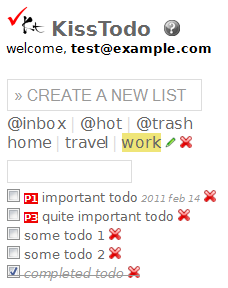
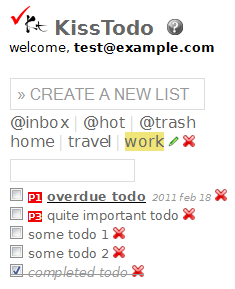
special today and overdue todo style

Changed region(s): [[0.0307, 0.25, 0.9825, 0.9688], [0.0307, 0.0, 0.9211, 0.1875]]

diff --git a/templates/todo/todo_item.html b/templates/todo/todo_item.html
@@ -1,7 +1,7 @@
 <span class="todo_item">
     <span class="todo_priority">{% if todo.priority < 4%}P{{ todo.priority }}{% endif %}</span>
-    <span class="todo_description"><a href="#">{{ todo.description }}</a></span>
-    <span class="small todo_list_name">{% if todo.due_date %}&nbsp;{{todo.due_date|date:'Y b d'}}{% endif %}{% if show_list %}&nbsp;[{{todo.list.name}}]{% endif %}</span>        
+    <span class="todo_description {% if todo.is_overdue %}overdue{% endif %}{% if todo.is_today%} today{% endif %}"><a href="#">{{ todo.description }}</a></span>
+    <span class="small todo_list_name">{% if todo.due_date %}&nbsp;{{todo.due_date|date:'Y b d'}}{% endif %}{% if show_list %}&nbsp;[{{todo.list.name}}]{% endif %}</span>
     <span class="no_background">
         <a href="#" class="todo_delete" id="todo_delete_{{todo.id}}"><img alt="delete" src="{{MEDIA_URL}}img/cancel.png" /></a>
         {% if todo.deleted %}<a href="#" class="todo_undelete" id="todo_undelete_{{todo.id}}"><img alt="undelete" src="{{MEDIA_URL}}img/undo.png" /></a>{% endif %}

diff --git a/static/css/main.css b/static/css/main.css
@@ -132,6 +132,15 @@ ul.todos li {
     margin:0 1px;
 }
 
+.today{
+    font-weight: bold;
+}
+
+.overdue {
+    font-weight: bold;
+    text-decoration: underline;
+}
+
 .complete .todo_priority {
     background-color:#ddd;
     color:#000;

diff --git a/todo/models.py b/todo/models.py
@@ -115,6 +115,14 @@ class Todo(models.Model):
         
     def delete_raw(self): 
         super(Todo, self).delete()
+
+    def is_today(self): 
+        if self.due_date is None: return False
+        return self.due_date.date() == datetime.now().date()        
+        
+    def is_overdue(self): 
+        if self.due_date is None: return False
+        return self.due_date.date() < datetime.now().date()
             
     def __unicode__(self):
         return u'%s' % (self.description)

diff --git a/todo/tests.py b/todo/tests.py
@@ -83,7 +83,8 @@ class TodoTest(TestCase):
         assert(todos[2].description=="t3")     
         assert(todos[3].description=="t1")     
         assert(todos[4].description=="t4")             
-        assert(todos[5].description=="t2")             
+        assert(todos[5].description=="t2")         
+                
   
 class ListTest(TestCase):
     def test_logic_delete(self):

diff --git a/app_version.py b/app_version.py
@@ -16,6 +16,6 @@
 
 APP_VERSION_MAJOR=1
 APP_VERSION_MINOR=11
-APP_VERSION_FIX=3
+APP_VERSION_FIX=4
 
 APP_VERSION="%s.%s.%s" % (APP_VERSION_MAJOR, APP_VERSION_MINOR, APP_VERSION_FIX)
